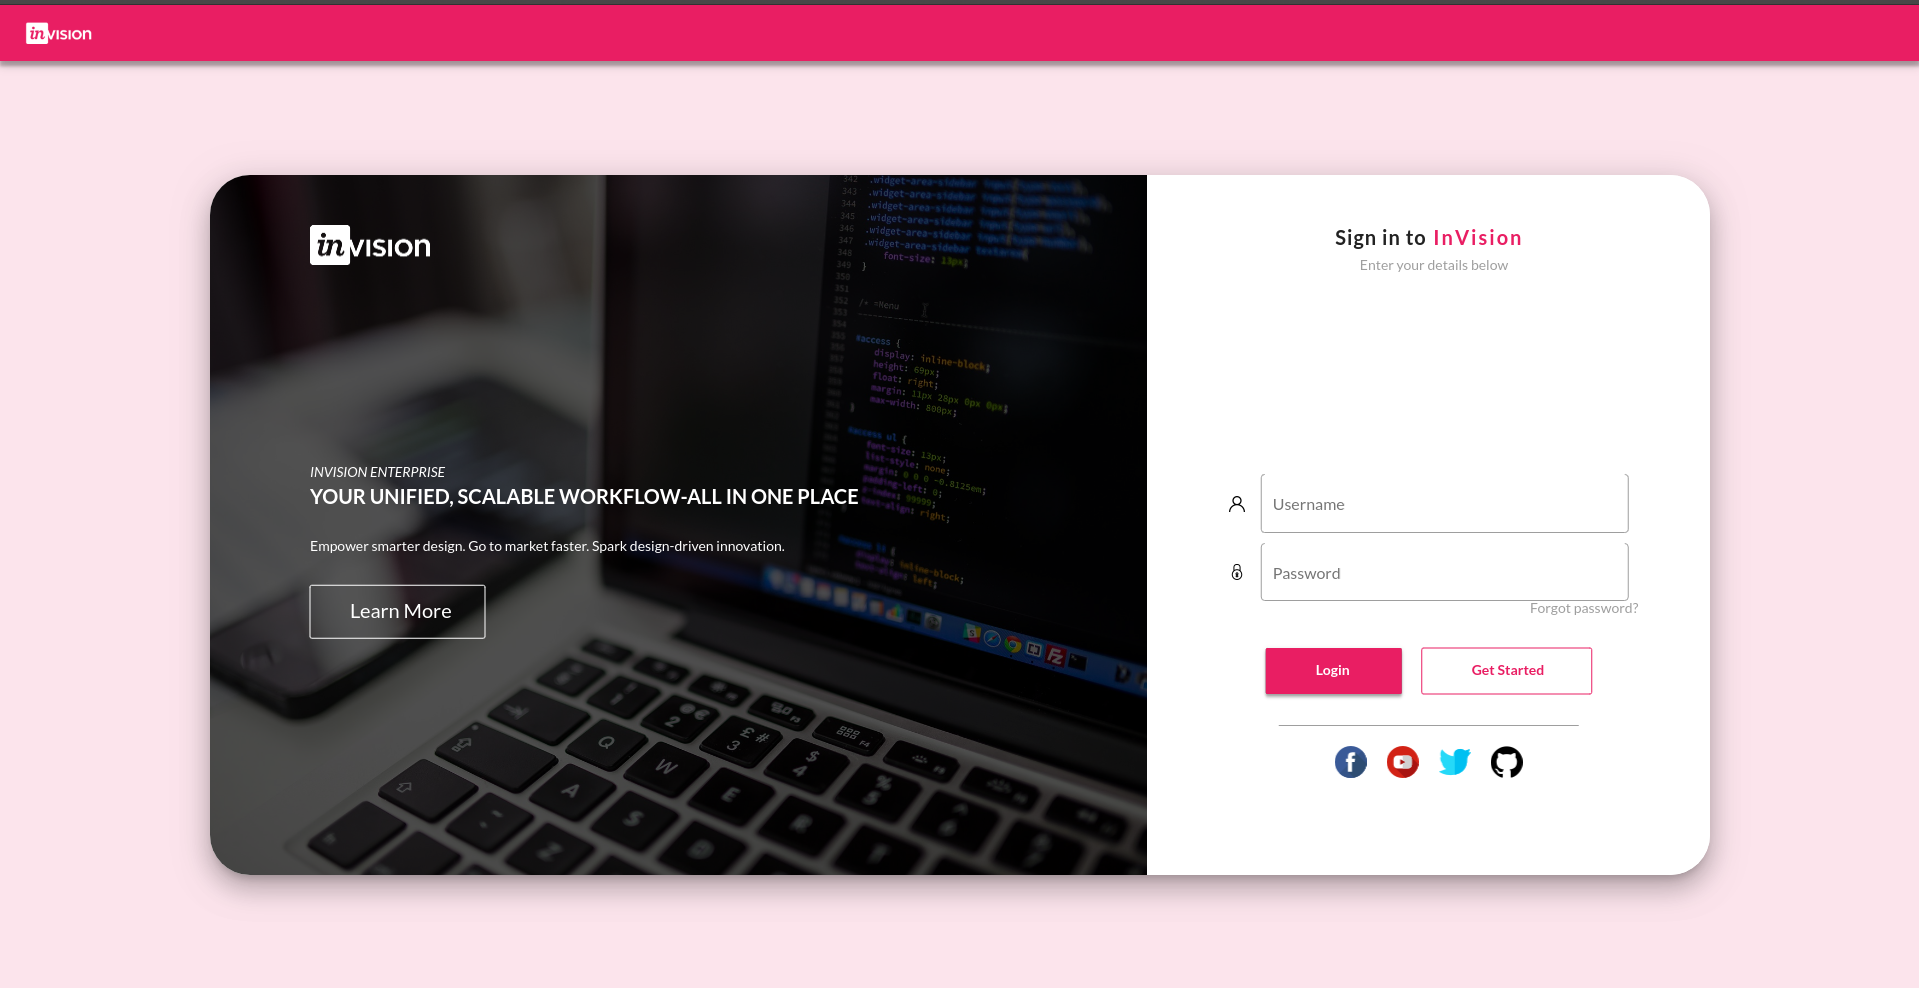
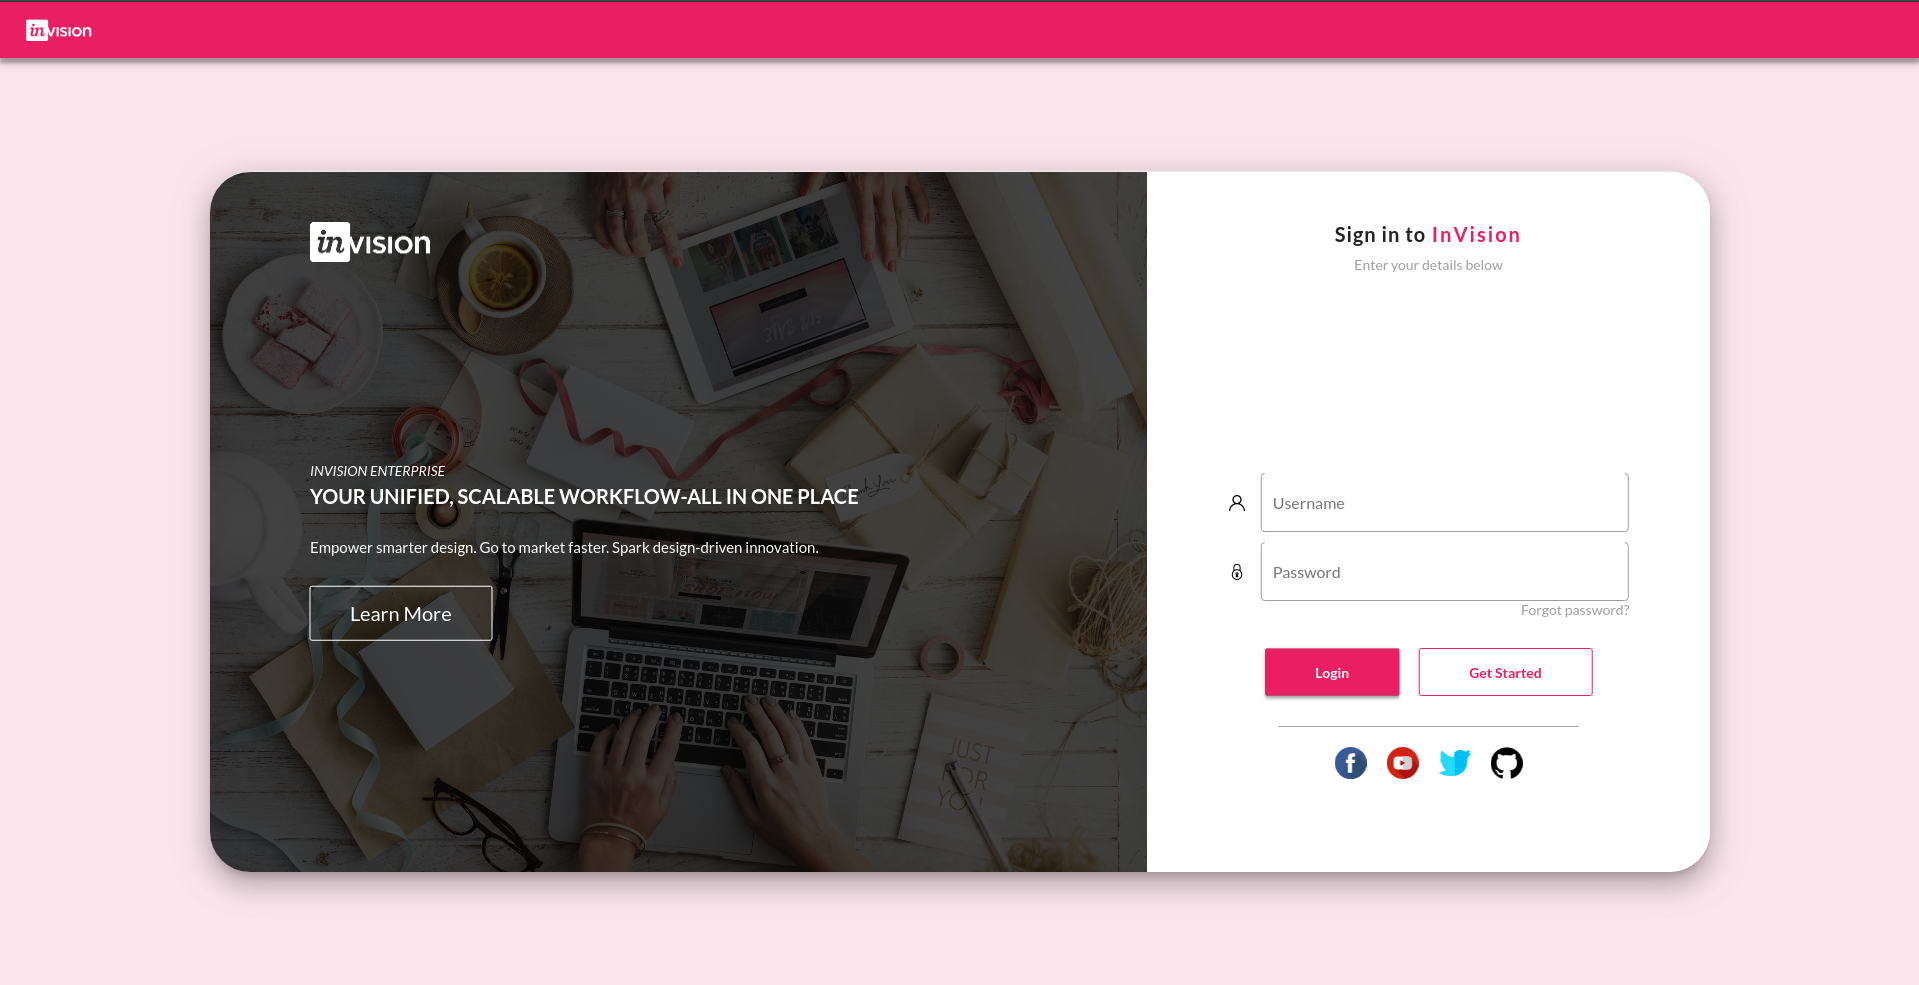
Update README.md

diff --git a/lib/widgets/leftSide.dart b/lib/widgets/leftSide.dart
@@ -14,7 +14,7 @@ class LeftSide extends StatelessWidget {
         // color: Color(0xff292929),
         decoration: BoxDecoration(
             image: DecorationImage(
-          image: AssetImage('images/bgImage.jpg'),
+          image: AssetImage('images/bg.jpg'),
           fit: BoxFit.cover,
         )),
         child: Container(
@@ -62,7 +62,7 @@ class LeftSide extends StatelessWidget {
                           margin: EdgeInsets.only(bottom: 30),
                           child: Text(
                             'Empower smarter design. Go to market faster. Spark design-driven innovation.',
-                            style: TextStyle(color: Colors.white),
+                            style: TextStyle(color: Colors.white,fontSize: 15),
                           ),
                         ),
                         OutlineButton(

diff --git a/README.md b/README.md
@@ -9,7 +9,6 @@ Inspired By [this post](https://www.uplabs.com/posts/invision-login-page)
 ![](assets/Screenshot.png)
 
 
-
 # Requirement
 
 To run the code you need to have Flutter web installed as well as dart SDK, and of course a code editor( eg: VsCode)
